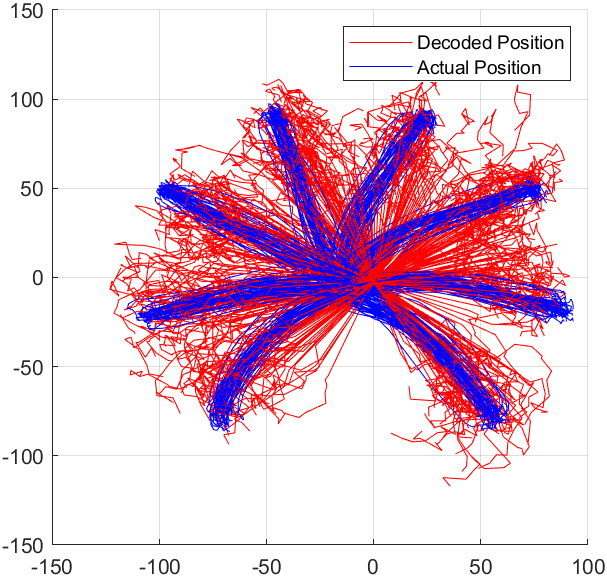
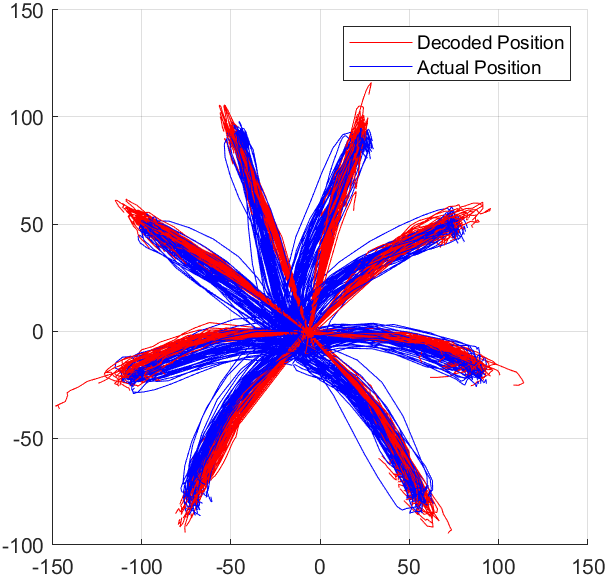
Merged initial version for comparison
Merged initial version and updated Stats.m for comparison

diff --git a/test_SVM2.m b/test_SVM2.m
@@ -1,0 +1,85 @@
+% Load dataset
+data = load('monkeydata_training.mat');
+TT_data = data.trial;
+numTrials = size(TT_data, 1);
+numAngles = size(TT_data, 2);
+
+% Set parameters for feature extraction
+numNeurons = size(TT_data(1,1).spikes, 1);
+numFeatures = 6; % Mean, Variance, Fano Factor, Total Spike Count, ISI Mean, ISI Variance
+
+% Split data into 80% training and 20% testing
+trainFraction = 0.8;
+randIdx = randperm(numTrials);
+numTrainTrials = round(trainFraction * numTrials);
+trainIndices = randIdx(1:numTrainTrials);
+testIndices = randIdx(numTrainTrials+1:end);
+
+trainingData = TT_data(trainIndices, :);
+testingData = TT_data(testIndices, :);
+
+% Train the SVM classifier
+Model = SVM_Classifier2(trainingData);
+
+% Extract test features from testing data
+numTestTrials = size(testingData, 1);
+testFeatures = zeros(numTestTrials * numAngles, numNeurons * numFeatures);
+trueAngles = zeros(numTestTrials * numAngles, 1);
+sampleIdx = 1;
+
+for trial = 1:numTestTrials
+    for angle = 1:numAngles
+        spikes = testingData(trial, angle).spikes;
+        ISI_mean = zeros(1, numNeurons);
+        ISI_var = zeros(1, numNeurons);
+        
+        % Compute ISI for each neuron
+        for neuron = 1:numNeurons
+            spikeIndices = find(spikes(neuron, :) > 0);
+            if length(spikeIndices) > 1
+                ISI = diff(spikeIndices);
+                ISI_mean(neuron) = mean(ISI);
+                ISI_var(neuron) = var(ISI);
+            else
+                ISI_mean(neuron) = 0;
+                ISI_var(neuron) = 0;
+            end
+        end
+
+        % Compute other features per neuron
+        meanFiring = mean(spikes, 2)';
+        varFiring = var(spikes, 0, 2)';
+        fanoFactor = varFiring ./ (meanFiring + 1e-6);
+        tot_spikes = sum(spikes, 2)';
+        
+        % Concatenate all features into a single row vector
+        featureVector = [meanFiring, varFiring, fanoFactor, tot_spikes, ISI_mean, ISI_var];
+
+        % Store features and corresponding angle
+        testFeatures(sampleIdx, :) = featureVector;
+        trueAngles(sampleIdx) = angle;
+        sampleIdx = sampleIdx + 1;
+    end
+end
+
+% Normalize Features
+testFeatures = (testFeatures - mean(testFeatures)) ./ (std(testFeatures) + 1e-6);
+
+% Predict angles using SVM classifier
+predictedAngles = predict(Model.svm, testFeatures);
+
+% Compute accuracy
+correctPredictions = sum(predictedAngles == trueAngles);
+accuracy = (correctPredictions / length(trueAngles)) * 100;
+errorRate = 100 - accuracy;
+
+fprintf('SVM Classifier Accuracy: %.2f%%\n', accuracy);
+fprintf('Error Rate: %.2f%%\n', errorRate);
+
+% Display confusion matrix
+figure;
+confusionMat = confusionmat(trueAngles, predictedAngles);
+confusionchart(confusionMat);
+title('Confusion Matrix for SVM Classification');
+xlabel('Predicted Angle');
+ylabel('True Angle');

diff --git a/positionEstimatorTraining2.m b/positionEstimatorTraining2.m
@@ -1,0 +1,64 @@
+function modelParameters = positionEstimatorTraining2(trainingData)
+    % Extract number of trials and neurons
+    numTrials = length(trainingData);
+    numNeurons = size(trainingData(1,1).spikes, 1);
+
+    SVMModel = SVM_Classifier2(trainingData);
+    
+    % Define matrices for Kalman filter
+    X = [];
+    Z = [];
+    trainingVelocities = [];
+    
+    binSize = 390;
+    for trial = 1:numTrials
+        for angle = 1:size(trainingData, 2)
+            spikes = trainingData(trial, angle).spikes;
+            handPos = trainingData(trial, angle).handPos;
+            
+            velocities = [];
+            for dim = 1:2  
+                cumsumPos = cumsum(handPos(dim, :), 2);
+                velocity = (cumsumPos(:, binSize+1:end) - cumsumPos(:, 1:end-binSize)) / binSize;
+                velocity = [zeros(1, binSize), velocity]; 
+                velocities = [velocities; velocity]; 
+            end
+            trainingVelocities = [trainingVelocities, velocities];
+            
+            cumsumSpikes = cumsum(spikes, 2);
+            firingRates = (cumsumSpikes(:, binSize:end) - cumsumSpikes(:, 1:end-binSize+1)) / binSize;
+            firingRates = [zeros(numNeurons, binSize-1), firingRates];
+
+            firingRateChanges = diff(firingRates, 1, 2); 
+            firingRateChanges = [zeros(numNeurons, 1), firingRateChanges];
+            
+            meanFiringRate = mean(firingRates, 2);
+
+            % Predict angle using SVM Classifier
+            angle_predicted = classifyAngle_SVM2(spikes, SVMModel);
+
+            for t = 1:size(handPos,2)-1
+                X = [X, [handPos(1,t); handPos(2,t); velocities(:,t)]]; 
+                Z = [Z, [firingRates(:,t); firingRateChanges(:,t); meanFiringRate; angle_predicted]];
+            end
+        end
+    end
+    
+    % Estimate Kalman parameters
+    A = (X(:,2:end) * X(:,1:end-1)') / (X(:,1:end-1) * X(:,1:end-1)');
+    A = A * 0.3;
+    W = cov(X(:,2:end)' - (A * X(:,1:end-1))');
+    W = W + 1e-3 * eye(size(W));
+    lambda = 1e-3;
+    H = (Z * X') / (X * X' + lambda * eye(size(X,1)));
+    Q = cov(Z' - (H * X)');
+    Q = Q * 0.7; 
+ 
+    % Store parameters
+    modelParameters.A = A;
+    modelParameters.W = W;
+    modelParameters.H = H;
+    modelParameters.Q = Q;
+    modelParameters.avgVelocity = mean(trainingVelocities, 2);
+    modelParameters.classifier = SVMModel;
+end

diff --git a/test_SVM.m b/test_SVM.m
@@ -9,6 +9,7 @@ numNeurons = size(TT_data(1,1).spikes, 1);
 numFeatures = 6;           % mean, var, fano, spike count, ISI mean, ISI var
 numTemporalWindows = 3;    % now includes the 301–350 ms window
 %totalFeatures = numNeurons * (numFeatures + numTemporalWindows);
+accuracies = zeros(numRounds, 1);
 
 
 
@@ -42,7 +43,7 @@ numTestTrials = size(testingData, 1);
 % Test each round separately
 for r = 1:numRounds
     T = roundWindows(r);
-    fprintf("\n=== Evaluating Round %d (time window = %d ms) ===\n", r, T);
+    %fprintf("\n=== Evaluating Round %d (time window = %d ms) ===\n", r, T);
 
     % === Determine feature length dynamically ===
     exampleSpikes = testingData(1, 1).spikes(:, 1:T);
@@ -67,10 +68,10 @@ for r = 1:numRounds
         end
     end
     
-    fprintf("Round %d\n", r);
-    fprintf("testFeatures: %d cols\n", size(testFeatures, 2));
-    fprintf("Model.featureMeans{%d}: %d cols\n", r, length(Model.featureMeans{r}));
-    fprintf("Model.featureStds{%d}: %d cols\n", r, length(Model.featureStds{r}));
+    %fprintf("Round %d\n", r);
+    %fprintf("testFeatures: %d cols\n", size(testFeatures, 2));
+    %fprintf("Model.featureMeans{%d}: %d cols\n", r, length(Model.featureMeans{r}));
+    %fprintf("Model.featureStds{%d}: %d cols\n", r, length(Model.featureStds{r}));
     % Normalize
     testFeatures = (testFeatures - Model.featureMeans{r}) ./ Model.featureStds{r};
 
@@ -80,10 +81,17 @@ for r = 1:numRounds
     % Evaluate
     correct = sum(predictedAngles == trueAngles);
     accuracy = (correct / length(trueAngles)) * 100;
-    fprintf("Accuracy at %d ms: %.2f%%\n", T, accuracy);
+    %fprintf("Accuracy at %d ms: %.2f%%\n", T, accuracy);
+    accuracies(r) = accuracy;
 
     % Optional: Confusion matrix
     figure;
-    confusionchart(confusionmat(trueAngles, predictedAngles));
-    title(sprintf("Confusion Matrix - SVM @ %d ms", T));
+    %confusionchart(confusionmat(trueAngles, predictedAngles));
+    %title(sprintf("Confusion Matrix - SVM @ %d ms", T));
 end
+
+accuracy = (sum(accuracies)/numRounds);
+errorRate = 100 - accuracy;
+
+fprintf('SVM Classifier Accuracy: %.2f%%\n', accuracy);
+fprintf('Error Rate: %.2f%%\n', errorRate);

diff --git a/SVM_Classifier2.m b/SVM_Classifier2.m
@@ -1,0 +1,46 @@
+function Model = SVM_Classifier2(trainingData)
+    % Extract the number of trials, angles, and neurons
+    numTrials = size(trainingData, 1);
+    numAngles = size(trainingData, 2);
+    numNeurons = size(trainingData(1,1).spikes, 1);
+    numFeatures = 6; % Mean, Variance, Fano Factor, Total Spike Count, ISI Mean, ISI Variance
+    
+    features = zeros(numTrials * numAngles, numNeurons * numFeatures);
+    angles = zeros(numTrials * numAngles, 1);
+    
+    sampleIdx = 1;
+    
+    for trial = 1:numTrials
+        for angle = 1:numAngles
+            spikes = trainingData(trial, angle).spikes;
+            
+            ISI_mean = zeros(1, numNeurons);
+            ISI_var = zeros(1, numNeurons);
+            
+            for neuron = 1:numNeurons
+                spikeIndices = find(spikes(neuron, :) > 0);
+                if length(spikeIndices) > 1
+                    ISI = diff(spikeIndices);
+                    ISI_mean(neuron) = mean(ISI);
+                    ISI_var(neuron) = var(ISI);
+                end
+            end
+            
+            meanFiring = mean(spikes, 2)';
+            varFiring = var(spikes, 0, 2)';
+            fanoFactor = varFiring ./ (meanFiring + 1e-6);
+            tot_spikes = sum(spikes, 2)';
+            
+            featureVector = [meanFiring, varFiring, fanoFactor, tot_spikes, ISI_mean, ISI_var];
+            features(sampleIdx, :) = featureVector;
+            angles(sampleIdx) = angle;
+            sampleIdx = sampleIdx + 1;
+        end
+    end
+    
+    % Mornalise features
+    features = (features - mean(features)) ./ (std(features) + 1e-6);
+    
+    % Train SVM model
+    Model.svm = fitcecoc(features, angles, 'Coding', 'onevsall', 'Learners', 'svm');
+end

diff --git a/positionEstimator2.m b/positionEstimator2.m
@@ -1,0 +1,45 @@
+function [x, y] = positionEstimator2(testData, modelParameters)
+    % Load model parameters
+    A = modelParameters.A;
+    W = modelParameters.W;
+    H = modelParameters.H;
+    Q = modelParameters.Q;
+    avgVelocity = modelParameters.avgVelocity;
+    classifier = modelParameters.classifier;
+    
+    % Load testing data
+    spikes = testData.spikes;
+    numNeurons = size(spikes, 1);
+    binSize = 395;
+    
+    % Initial estimates
+    x_est = [testData.startHandPos(1); testData.startHandPos(2); avgVelocity];
+    P_est = eye(4);
+    
+    % Compute spikes train's features for Z
+    cumsumSpikes = cumsum(spikes, 2);
+    firingRates = (cumsumSpikes(:, binSize:end) - cumsumSpikes(:, 1:end-binSize+1)) / binSize;
+    firingRates = [zeros(numNeurons, binSize-1), firingRates];
+    firingRateChanges = diff(firingRates, 1, 2);
+    firingRateChanges = [zeros(numNeurons, 1), firingRateChanges];
+    meanFiringRate = mean(firingRates, 2);
+
+    % Predict the angle using SVM classifier
+    angle_predicted = classifyAngle_SVM2(spikes, classifier);
+
+    % Populate Z feature matrix
+    Z = [firingRates; firingRateChanges; repmat(meanFiringRate, 1, size(firingRates, 2)); repmat(angle_predicted, 1, size(firingRates, 2))];  
+   
+    % Batch Kalman filter update
+    X_pred = A * x_est;
+    P_pred = A * P_est * A' + W;
+    lambda = 1e-6; 
+    S = H * P_pred * H' + Q + lambda * eye(size(Q));
+    K = (P_pred * H') / S;
+    X_est = X_pred + K * (Z - H * X_pred);
+    P_est = P_pred - K * H * P_pred;
+
+    % Output estimated position
+    x = X_est(1, end);
+    y = X_est(2, end);
+end

diff --git a/classifyAngle_SVM2.m b/classifyAngle_SVM2.m
@@ -1,0 +1,27 @@
+function predictedAngle = classifyAngle_SVM2(spikes, Model)
+    numNeurons = size(spikes, 1);
+    numFeatures = 6;
+    featureVector = zeros(1, numNeurons * numFeatures);
+    
+    ISI_mean = zeros(1, numNeurons);
+    ISI_var = zeros(1, numNeurons);
+    
+    for neuron = 1:numNeurons
+        spikeIndices = find(spikes(neuron, :) > 0);
+        if length(spikeIndices) > 1
+            ISI = diff(spikeIndices);
+            ISI_mean(neuron) = mean(ISI);
+            ISI_var(neuron) = var(ISI);
+        end
+    end
+    
+    meanFiring = mean(spikes, 2)';
+    varFiring = var(spikes, 0, 2)';
+    fanoFactor = varFiring ./ (meanFiring + 1e-6);
+    tot_spikes = sum(spikes, 2)';
+    
+    featureVector = [meanFiring, varFiring, fanoFactor, tot_spikes, ISI_mean, ISI_var];
+    featureVector = (featureVector - mean(featureVector)) ./ (std(featureVector) + 1e-6);
+    
+    predictedAngle = predict(Model.svm, featureVector);
+end

diff --git a/testFunction_for_students_MTb.m b/testFunction_for_students_MTb.m
@@ -12,7 +12,7 @@ load monkeydata_training.mat
 rng(2013);
 ix = randperm(length(trial));
 
-addpath('Banana-Certified Interfaces');
+% addpath('Banana-Certified Interfaces');
 
 % Select training and testing data (you can choose to split your data in a different way if you wish)
 trainingData = trial(ix(1:50),:);
@@ -78,7 +78,7 @@ fprintf('Total time taken: %.4f seconds\n', totalTime);
 fprintf('Average time per prediction: %.4f seconds\n', totalTime / n_predictions);
 Weighted_rank = 0.9 * RMSE + 0.1 * totalTime
 
-rmpath(genpath('Banana-Certified Interfaces'))
+% rmpath(genpath('Banana-Certified Interfaces'))
 
 end
 

diff --git a/Stats.m b/Stats.m
@@ -6,7 +6,7 @@ Average time per prediction: 0.0030 seconds
 
 Weighted_rank = 24.1587
 
-%% SVM + KF
+%% KalmanSVM
 % SVM Test
 SVM Classifier Accuracy: 90.00%
 Error Rate: 10.00%
@@ -17,3 +17,16 @@ RMSE = 25.0092
 Total time taken: 39.5983 seconds
 Average time per prediction: 0.0059 seconds
 Weighted_rank = 26.4681
+
+%% KalmanSVM2
+% SVM Test
+SVM Classifier Accuracy: 92.25%
+Error Rate: 7.75%
+
+% SVM + KF
+RMSE = 20.8070
+
+Total time taken: 91.9412 seconds
+Average time per prediction: 0.0137 seconds
+
+Weighted_rank = 27.9204
